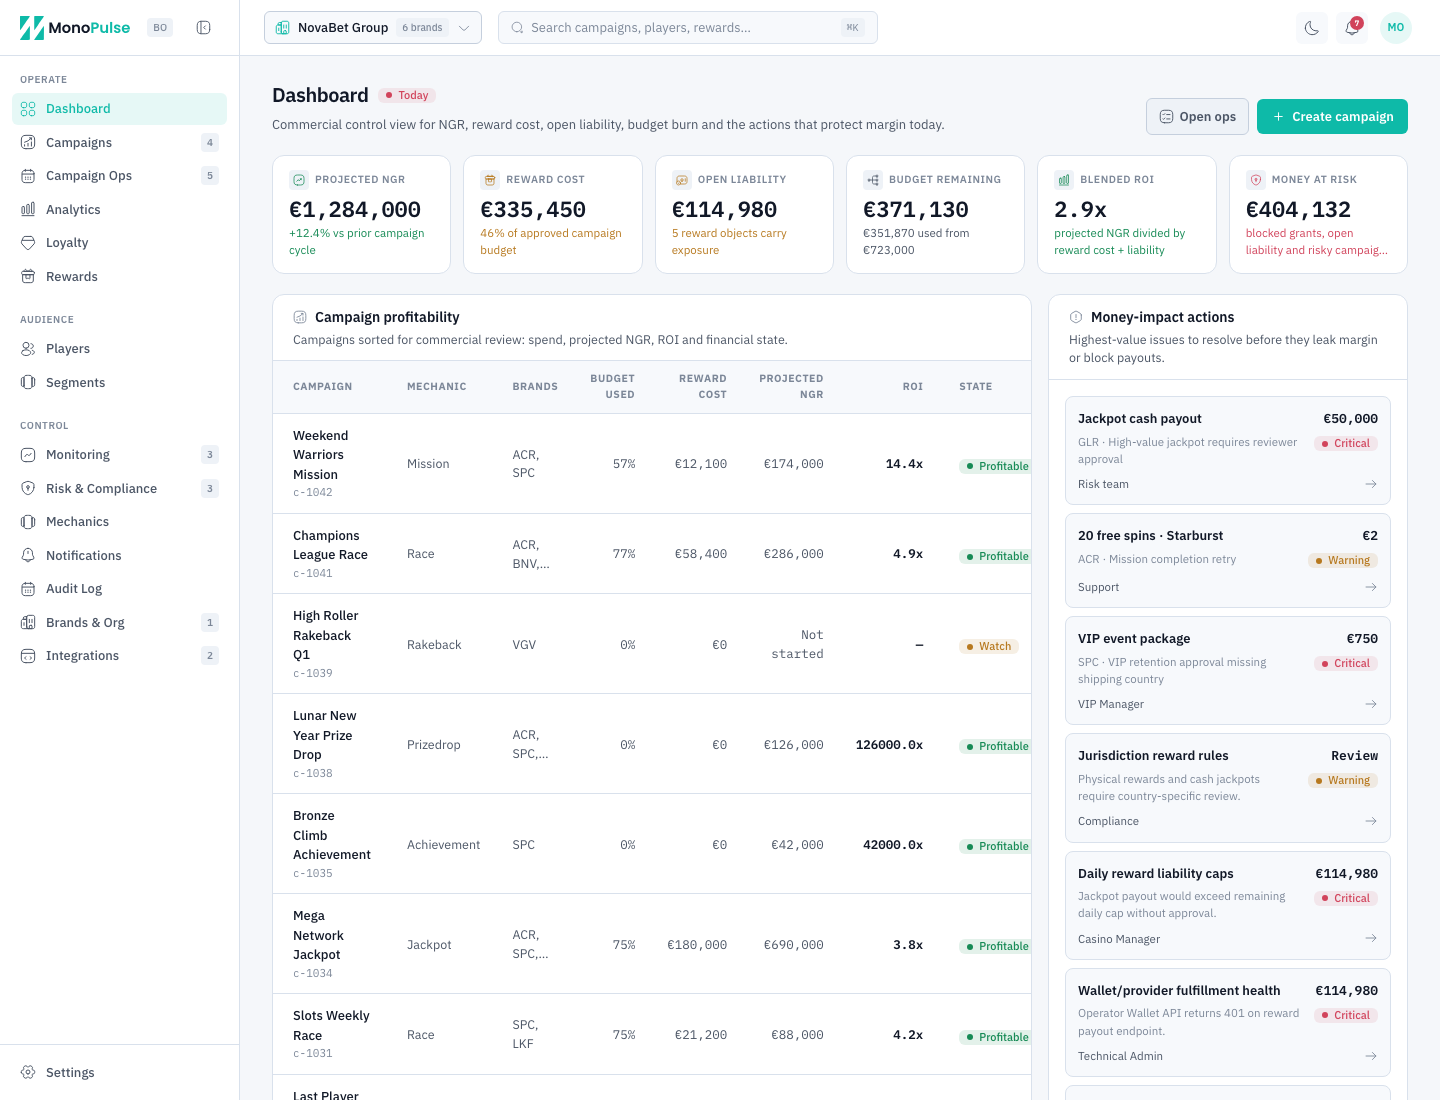
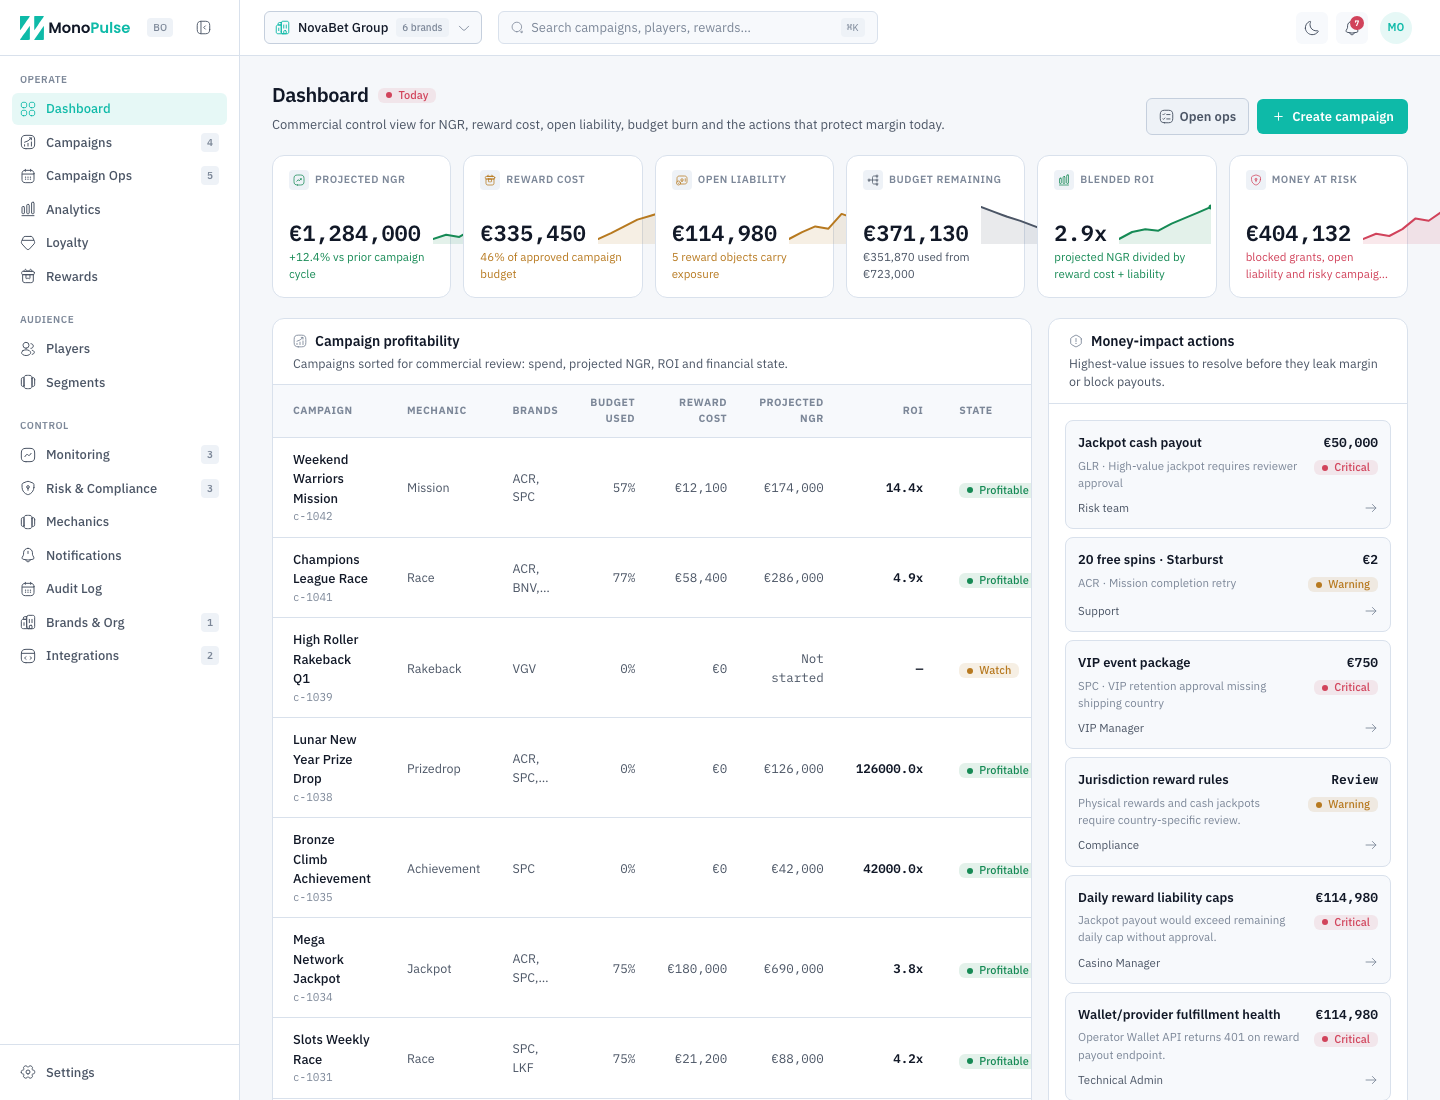
Add dashboard KPI trend sparklines

diff --git a/screens/Dashboard.tsx b/screens/Dashboard.tsx
@@ -200,16 +200,43 @@ export default function Dashboard() {
 function MoneyKpiCard({ kpi, onOpen }: { kpi: MoneyKpi; onOpen: () => void }) {
   const Icon = KPI_ICON[kpi.id] ?? MoneyTick;
   return (
-    <button onClick={onOpen} className="rounded-xl border px-4 py-3.5 text-left hover:bg-[var(--surface-2)]" style={{ borderColor: 'var(--border-subtle)', background: 'var(--surface-1)' }}>
+    <button onClick={onOpen} className="min-h-[142px] rounded-xl border px-4 py-3.5 text-left hover:bg-[var(--surface-2)]" style={{ borderColor: 'var(--border-subtle)', background: 'var(--surface-1)' }}>
       <div className="flex items-center gap-1.5 text-[10.5px] font-semibold uppercase tracking-wider text-fg-muted">
         <span className="flex h-5 w-5 items-center justify-center rounded" style={{ background: 'var(--surface-3)' }}>
           <Icon size={12} variant="Linear" color={toneColor(kpi.tone)} />
         </span>
         {kpi.label}
       </div>
-      <div className="mt-2 font-mono text-[22px] font-semibold leading-none tabular-nums text-fg-primary">{kpi.value}</div>
+      <div className="mt-3 flex items-end justify-between gap-3">
+        <div className="font-mono text-[22px] font-semibold leading-none tabular-nums text-fg-primary">{kpi.value}</div>
+        <Sparkline values={kpi.trend} tone={kpi.tone} />
+      </div>
       <div className="mt-1 line-clamp-2 text-[11.5px]" style={{ color: toneColor(kpi.tone) }}>{kpi.detail}</div>
     </button>
+  );
+}
+
+function Sparkline({ values, tone }: { values: number[]; tone: MoneyKpi['tone'] }) {
+  const width = 92;
+  const height = 42;
+  const min = Math.min(...values);
+  const max = Math.max(...values);
+  const range = Math.max(1, max - min);
+  const points = values.map((value, index) => {
+    const x = (index / Math.max(1, values.length - 1)) * width;
+    const y = height - 5 - ((value - min) / range) * (height - 10);
+    return { x, y };
+  });
+  const line = points.map((point) => `${point.x.toFixed(1)},${point.y.toFixed(1)}`).join(' ');
+  const area = `0,${height} ${line} ${width},${height}`;
+  const color = toneColor(tone);
+
+  return (
+    <svg className="h-[42px] w-[92px] shrink-0" viewBox={`0 0 ${width} ${height}`} aria-hidden="true">
+      <polyline points={area} fill={color} opacity="0.12" />
+      <polyline points={line} fill="none" stroke={color} strokeWidth="2" strokeLinecap="round" strokeLinejoin="round" />
+      <circle cx={points[points.length - 1].x} cy={points[points.length - 1].y} r="2.5" fill={color} />
+    </svg>
   );
 }
 

diff --git a/data/dashboard.ts b/data/dashboard.ts
@@ -68,6 +68,7 @@ export interface MoneyKpi {
   value: string;
   detail: string;
   tone: 'good' | 'warning' | 'danger' | 'neutral';
+  trend: number[];
   href: string;
 }
 
@@ -137,12 +138,12 @@ export function moneyKpis(): MoneyKpi[] {
   const atRisk = pendingLiability + openGrantValue + CAMPAIGNS.filter((campaign) => campaign.risk !== 'none').reduce((sum, campaign) => sum + Math.max(0, campaign.rewardCost), 0);
 
   return [
-    { id: 'ngr', label: 'Projected NGR', value: money(projectedNgr), detail: '+12.4% vs prior campaign cycle', tone: 'good', href: '/analytics' },
-    { id: 'cost', label: 'Reward cost', value: money(rewardCost), detail: `${Math.round((rewardCost / totalBudget) * 100)}% of approved campaign budget`, tone: 'warning', href: '/' },
-    { id: 'liability', label: 'Open liability', value: money(pendingLiability), detail: `${REWARDS.filter((reward) => reward.pendingLiability > 0).length} reward objects carry exposure`, tone: 'warning', href: '/rewards' },
-    { id: 'remaining', label: 'Budget remaining', value: money(totalBudget - usedBudget), detail: `${money(usedBudget)} used from ${money(totalBudget)}`, tone: 'neutral', href: '/ops' },
-    { id: 'roi', label: 'Blended ROI', value: `${roi.toFixed(1)}x`, detail: 'projected NGR divided by reward cost + liability', tone: 'good', href: '/analytics' },
-    { id: 'risk', label: 'Money at risk', value: money(atRisk), detail: 'blocked grants, open liability and risky campaign spend', tone: 'danger', href: '/safety' },
+    { id: 'ngr', label: 'Projected NGR', value: money(projectedNgr), detail: '+12.4% vs prior campaign cycle', tone: 'good', trend: [42, 46, 44, 51, 56, 62, 68, 72], href: '/analytics' },
+    { id: 'cost', label: 'Reward cost', value: money(rewardCost), detail: `${Math.round((rewardCost / totalBudget) * 100)}% of approved campaign budget`, tone: 'warning', trend: [18, 24, 31, 38, 42, 46, 49, 51], href: '/' },
+    { id: 'liability', label: 'Open liability', value: money(pendingLiability), detail: `${REWARDS.filter((reward) => reward.pendingLiability > 0).length} reward objects carry exposure`, tone: 'warning', trend: [30, 36, 41, 39, 52, 48, 58, 55], href: '/rewards' },
+    { id: 'remaining', label: 'Budget remaining', value: money(totalBudget - usedBudget), detail: `${money(usedBudget)} used from ${money(totalBudget)}`, tone: 'neutral', trend: [86, 80, 74, 69, 63, 57, 52, 47], href: '/ops' },
+    { id: 'roi', label: 'Blended ROI', value: `${roi.toFixed(1)}x`, detail: 'projected NGR divided by reward cost + liability', tone: 'good', trend: [38, 43, 45, 44, 49, 53, 57, 61], href: '/analytics' },
+    { id: 'risk', label: 'Money at risk', value: money(atRisk), detail: 'blocked grants, open liability and risky campaign spend', tone: 'danger', trend: [28, 35, 32, 41, 55, 52, 64, 70], href: '/safety' },
   ];
 }
 